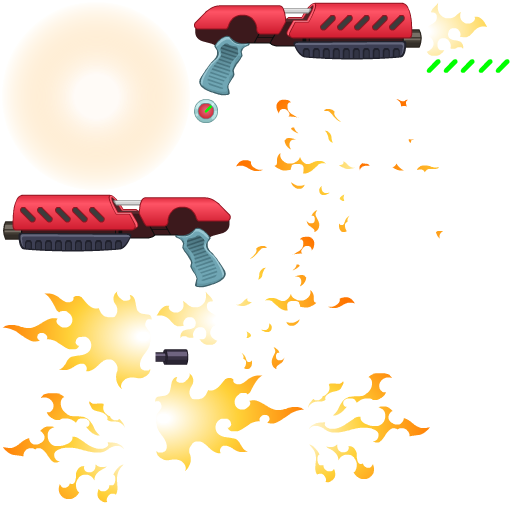
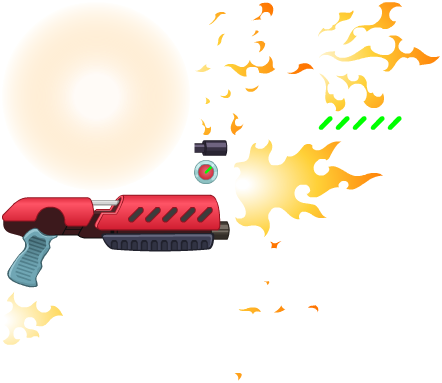
+ Added another gun + Implemented gun switch + Added gun configurations

diff --git a/Classes/Gun.cpp b/Classes/Gun.cpp
@@ -11,40 +11,72 @@ Gun::Gun()
 
 Gun::~Gun()
 {
-}
-
-bool Gun::init()
-{
-    bool ret = true;
-    {
-        
-    }
-    return ret;
+    CC_SAFE_RELEASE(m_model);
+    CC_SAFE_RELEASE(m_projectile);
 }
 
 void Gun::shoot()
 {
+    if (m_cooldown > 0)
+        return;
+
     if (m_model)
     {
-        m_model->playSequence("fire_right", false);
+        m_model->playSequence("fire", false);
+        m_cooldown = m_reloadTime;
     }
 }
 
-void Gun::load(const std::string& name)
+void Gun::update(float dt)
 {
-    if (m_model)
+    if (m_cooldown > 0)
+        m_cooldown -= dt;
+}
+
+Gun* Gun::create(const std::string& name)
+{
+    Gun* ret = new Gun();
+    if (ret && ret->init(name))
     {
-        removeChild(m_model, true);
+        ret->autorelease();
+        return ret;
     }
+    delete ret;
+    return nullptr;
+}
 
-    GAFAsset* asset = GAFAsset::create(name);
-    m_model = asset->createObjectAndRun();
-    Rect frame = asset->getHeader().frameSize;
-    m_model->setPosition(Vec2(-185, 370));
-
-    if (m_model)
+bool Gun::init(const std::string& name)
+{
+    bool ret = true;
     {
-        m_model->playSequence("idle_right", true);
+        cocos2d::__Dictionary* params = cocos2d::__Dictionary::createWithContentsOfFile(name.c_str());
+
+        if (!params)
+            return false;
+
+        std::string modelName = params->valueForKey("model")->_string;
+
+        GAFAsset* asset = GAFAsset::create(modelName);
+        if (!asset)
+            return false;
+
+        m_model = asset->createObjectAndRun();
+        m_model->retain();
+        Vec2 position(Vec2(params->valueForKey("pivot_x")->floatValue(), params->valueForKey("pivot_y")->floatValue()));
+        m_model->setPosition(position);
+        m_model->playSequence("idle", true);
         addChild(m_model);
+
+        std::string projectileName = params->valueForKey("projectile")->_string;
+        m_projectile = GAFAsset::create(projectileName);
+        if (m_projectile)
+            m_projectile->retain();
+
+        m_projectileSpeed = params->valueForKey("projectile_speed")->floatValue();
+        m_projectileDamage = params->valueForKey("damage")->floatValue();
+        m_reloadTime = params->valueForKey("reload_time")->floatValue();
+
+        Director::getInstance()->getScheduler()->scheduleUpdate(this, 1, false);
     }
+    return true;
 }

diff --git a/Classes/GameplayScene.cpp b/Classes/GameplayScene.cpp
@@ -47,16 +47,30 @@ bool GameplayScene::init()
     {
         Label* fire = Label::create("><", "Courier.ttf", 70);
         MenuItem* fireButton = MenuItemLabel::create(fire, CC_CALLBACK_1(GameplayScene::fireButtonCallback, this));
-        fireButton->setPosition(Size(visibleSize.width - fireButton->getContentSize().width, fireButton->getContentSize().height + 10));
+        fireButton->setPosition(Size(visibleSize.width - fireButton->getContentSize().width, fireButton->getContentSize().height - 10));
         Menu* menu = Menu::create(fireButton, NULL);
         menu->setPosition(Vec2::ZERO);
         addChild(menu, 1);
     }
 
+    {
+        Label* one = Label::create("Gun 1", "Courier.ttf", 35);
+        Label* two = Label::create("Gun 2", "Courier.ttf", 35);
+        MenuItem* oneButton = MenuItemLabel::create(one,
+            CC_CALLBACK_1(GameplayScene::setGunCallback, this, "gun_1.plist"));
+
+        MenuItem* twoButton = MenuItemLabel::create(two,
+            CC_CALLBACK_1(GameplayScene::setGunCallback, this, "gun_2.plist"));
+
+        twoButton->setPosition(Size(0, - oneButton->getContentSize().height + 10));
+        Menu* menu = Menu::create(oneButton, twoButton, NULL);
+        menu->setPosition(Size(oneButton->getContentSize().width, visibleSize.height - oneButton->getContentSize().height));
+        addChild(menu, 1);
+    }
+
     m_player = Player::create();
 
-    Gun* gun = Gun::create();
-    gun->load("gun_1/gun_1.gaf");
+    Gun* gun = Gun::create("gun_1.plist");
     m_player->setGun(gun);
     addChild(m_player, 1);
 
@@ -96,4 +110,9 @@ void GameplayScene::rightButtonCallback(cocos2d::Ref* pSender, bool pressed)
     {
         m_player->stop();
     }
+}
+
+void GameplayScene::setGunCallback(cocos2d::Ref* pSender, const std::string& name)
+{
+    m_player->setGun(Gun::create(name));
 }

diff --git a/Classes/Gun.h b/Classes/Gun.h
@@ -2,23 +2,27 @@
 
 #include "cocos2d.h"
 class GAFAnimatedObject;
+class GAFAsset;
 
 class Gun : public cocos2d::Node
 {
 public:
     Gun();
     virtual ~Gun();
-    virtual bool init();  
-    
-    void load(const std::string& name);
+    virtual bool init(const std::string& name);
 
-    CREATE_FUNC(Gun);
+    static Gun* create(const std::string& name);
 
     void shoot();
 
+    void update(float dt);
+
 private:
     float m_reloadTime = 0;
-    float m_bulletSpeed = 1;
-    float m_bulletDamage = 1;
+    float m_projectileSpeed = 1;
+    float m_projectileDamage = 1;
     GAFAnimatedObject* m_model = nullptr;
+    GAFAsset* m_projectile = nullptr;
+
+    float m_cooldown = 0;
 };

diff --git a/Classes/Player.cpp b/Classes/Player.cpp
@@ -13,18 +13,18 @@ Player::Player()
 Player::~Player()
 {
     CC_SAFE_RELEASE(m_model);
+    CC_SAFE_RELEASE(m_gun);
 }
 
 void Player::setGun(Gun* gun)
 {
-    CC_SAFE_FREE(m_gun);
-    m_gun = gun;
-    m_gun->retain();
 
     m_model->captureControlOverSubobjectNamed("ROBOT.GUN", kGAFAnimatedObjectControl_ApplyState);
     int n = m_model->objectIdByObjectName("ROBOT.GUN");
     auto obj = m_model->subObjectForInnerObjectId(n);
-
+    obj->removeChild(m_gun, true);
+    m_gun = gun;
+    m_gun->retain();
 
     obj->setVisible(false);
     obj->addChild(m_gun, 1);

diff --git a/Classes/GameplayScene.h b/Classes/GameplayScene.h
@@ -16,6 +16,7 @@ public:
     void fireButtonCallback(cocos2d::Ref* pSender);
     void leftButtonCallback(cocos2d::Ref* pSender, bool pressed);
     void rightButtonCallback(cocos2d::Ref* pSender, bool pressed);
+    void setGunCallback(cocos2d::Ref* pSender, const std::string& name);
 
 private:
     Player* m_player;
